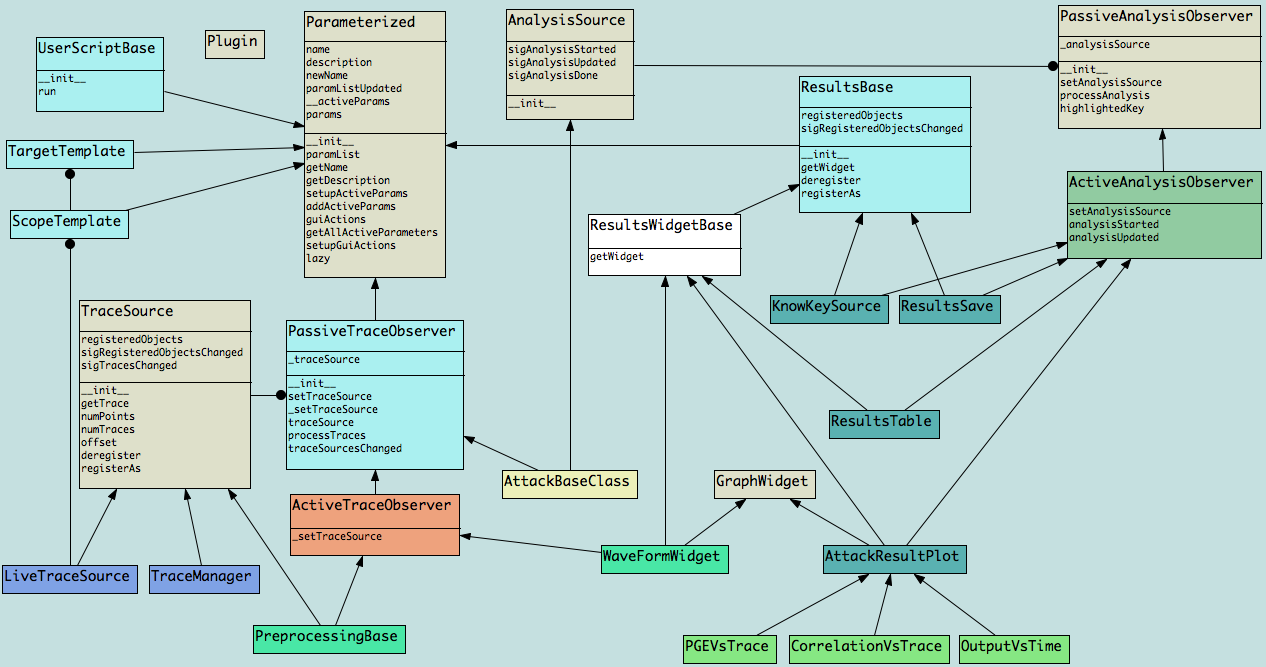
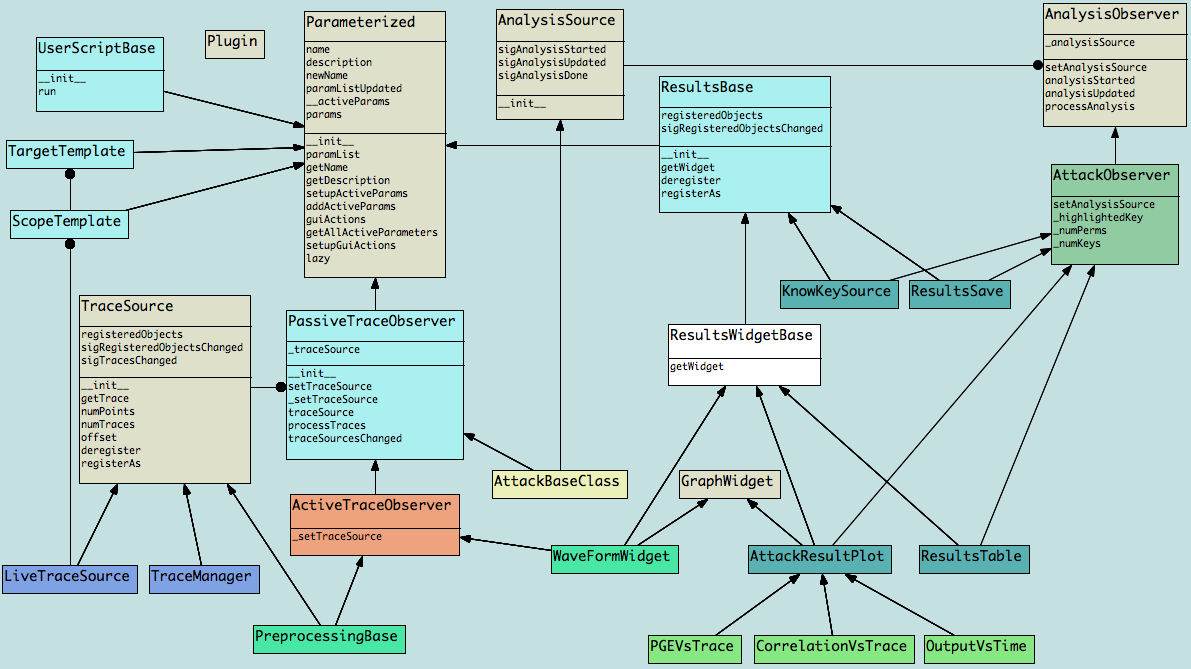
Class diagram updated

diff --git a/software/chipwhisperer/common/results/_plotdata.py b/software/chipwhisperer/common/results/_plotdata.py
@@ -56,7 +56,7 @@ class AttackResultPlot(GraphWidget, ResultsWidgetBase, AttackObserver):
         AttackObserver.__init__(self)
         self.initUI(True)
 
-        # Setup the redrawPlot to be delayed when pressing the Key buttons
+        # Setup the redrawPlot() to be delayed when pressing the Key buttons
         self.delayedRedrawPlot = Timer()
         self.delayedRedrawPlot.timeout.connect(self.redrawPlot)
         self.delayedRedrawPlot.setSingleShot(True)

diff --git a/software/chipwhisperer/analyzer/attacks/_base.py b/software/chipwhisperer/analyzer/attacks/_base.py
@@ -100,6 +100,7 @@ class AttackBaseClass(PassiveTraceObserver, AnalysisSource, Plugin):
 
 
 class AttackObserver(AnalysisObserver):
+    # It is an AnalysisObserver with methods to get information from attacks
 
     def setAnalysisSource(self, analysisSource):
         if issubclass(analysisSource.__class__, AttackBaseClass):
